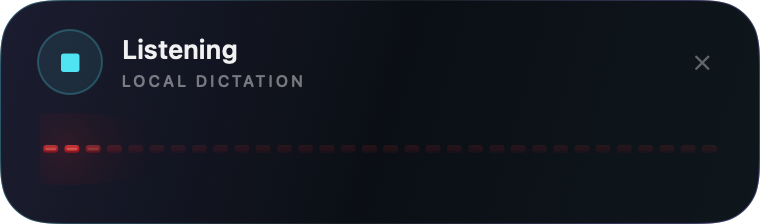
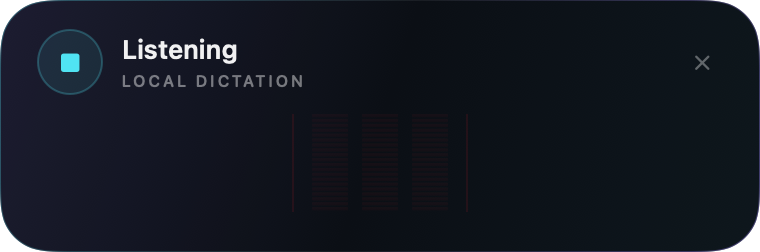
Use KITT voice modulator columns instead of the sweeping scanner

diff --git a/Sources/Views/Components/FloatingRecorderView.swift b/Sources/Views/Components/FloatingRecorderView.swift
@@ -35,7 +35,7 @@ internal struct FloatingRecorderView: View {
                 finalTranscript(finalText)
             } else {
                 VoiceRibbon(levels: levels, active: recording)
-                    .frame(height: 37)
+                    .frame(height: 51)
                     .padding(.horizontal, 20)
                     .padding(.top, 9)
                     .padding(.bottom, streaming ? 9 : 12)
@@ -160,72 +160,63 @@ internal enum AudioLevelDisplay {
     }
 }
 
+/// Three centered LED columns inspired by KITT's dashboard voice modulator.
+/// This view updates only with the existing microphone meter; it has no clock.
 internal struct VoiceRibbon: View {
     let levels: [Double]
     let active: Bool
-    @Environment(\.accessibilityReduceMotion) private var reduceMotion
 
-    var body: some View {
-        Group {
-            if active && !reduceMotion {
-                // Redraw only this small canvas. No particles, blur passes, or
-                // perpetual work once recording stops. Audio still meters at 10 Hz.
-                TimelineView(.animation(minimumInterval: 1.0 / 24.0)) { timeline in
-                    scanner(at: timeline.date.timeIntervalSinceReferenceDate)
-                }
-            } else {
-                scanner(at: nil)
-            }
-        }
-        .accessibilityElement(children: .ignore).accessibilityLabel("Microphone waveform")
+    private func recentLevel(_ count: Int) -> Double {
+        let samples = levels.suffix(count)
+        guard active, !samples.isEmpty else { return 0 }
+        return min(1, max(0, samples.reduce(0, +) / Double(samples.count)))
     }
 
-    private func scanner(at time: TimeInterval?) -> some View {
+    var body: some View {
         Canvas { context, size in
-            let count = 32
-            let pitch = size.width / Double(count)
-            let phase = (time ?? 0) * (2 * Double.pi / 3.2)
-            let head = time == nil ? 0.5 : 0.5 + 0.46 * sin(phase)
-            let direction = cos(phase) >= 0 ? 1.0 : -1.0
-            let voice = active ? (levels.suffix(6).max() ?? 0) : 0
-            let red = Color(red: 1, green: 0.08, blue: 0.12)
-            let lamp = Gradient(colors: [
-                Color(red: 1, green: 0.30, blue: 0.25), red, Color(red: 0.60, green: 0.015, blue: 0.08)
-            ])
+            let rows = 20
+            let columnWidth = 18.0
+            let gap = 7.0
+            let width = columnWidth * 3 + gap * 2
+            let origin = (size.width - width) / 2
+            let pitch = (size.height - 2) / Double(rows)
+            let red = Color(red: 1, green: 0.065, blue: 0.09)
+            let voice = recentLevel(1)
+            // Center follows the present syllable; the flanks use a short envelope
+            // of real readings. These are visual envelopes, not frequency bands.
+            let envelopes = [recentLevel(2) * 0.76, voice, recentLevel(3) * 0.76]
+            let lamp = Gradient(colors: [Color(red: 1, green: 0.31, blue: 0.22), red,
+                                         Color(red: 0.75, green: 0.015, blue: 0.055)])
 
-            // A gradient supplies the halo without an offscreen blur texture.
-            if active {
-                let center = CGPoint(x: head * size.width, y: size.height / 2)
-                context.fill(Path(ellipseIn: CGRect(x: center.x - 55, y: center.y - 18, width: 110, height: 36)),
-                    with: .radialGradient(Gradient(colors: [red.opacity(0.11 + voice * 0.10), .clear]),
-                        center: center, startRadius: 0, endRadius: 55))
+            // Fine, stationary rails frame the voice box without filling the width.
+            for side in [0, 1] {
+                let x = side == 0 ? origin - 10 : origin + width + 9
+                context.fill(Path(CGRect(x: x, y: 1, width: 1, height: size.height - 2)),
+                             with: .color(red.opacity(0.10)))
             }
-
-            for index in 0..<count {
-                let position = (Double(index) + 0.5) / Double(count)
-                let distance = abs(position - head)
-                let behind = (head - position) * direction >= 0
-                let core = exp(-pow(distance * 21, 2))
-                let trail = exp(-distance * (behind ? 14 : 48))
-                let scanner = active ? min(1, core * 0.8 + trail * 0.4) : 0
-                let sampleIndex = min(levels.count - 1, index * levels.count / count)
-                let level = active && sampleIndex >= 0 ? levels[sampleIndex] : 0
-                // Height is driven only by captured voice levels; the scanner is light.
-                let height = 4 + pow(level, 1.4) * (size.height - 10)
-                let rect = CGRect(x: Double(index) * pitch + 1.6, y: (size.height - height) / 2,
-                                  width: max(1, pitch - 3.2), height: height)
-                let shape = Path(roundedRect: rect, cornerRadius: 1.5)
-                var segment = context
-                segment.opacity = active ? min(0.96, 0.10 + scanner * (0.61 + voice * 0.24) + level * 0.12) : 0.05
-                segment.fill(shape, with: .linearGradient(lamp,
-                    startPoint: CGPoint(x: rect.midX, y: rect.minY), endPoint: CGPoint(x: rect.midX, y: rect.maxY)))
-                if scanner > 0.3 {
-                    let filament = CGRect(x: rect.minX + 1, y: rect.midY - 0.7,
-                                          width: max(1, rect.width - 2), height: 1.4)
-                    context.fill(Path(roundedRect: filament, cornerRadius: 0.7),
-                        with: .color(Color(red: 1, green: 0.72, blue: 0.56).opacity(scanner * (0.35 + voice * 0.5))))
+            for column in 0..<3 {
+                let strength = pow(envelopes[column], 1.1)
+                let litPairs = Int((strength * Double(rows / 2)).rounded())
+                let x = origin + Double(column) * (columnWidth + gap)
+                if litPairs > 0 {
+                    let center = CGPoint(x: x + columnWidth / 2, y: size.height / 2)
+                    context.fill(Path(ellipseIn: CGRect(x: x - 9, y: 0, width: columnWidth + 18, height: size.height)),
+                        with: .radialGradient(Gradient(colors: [red.opacity(strength * 0.15), .clear]),
+                            center: center, startRadius: 0, endRadius: size.height / 2))
+                }
+                for row in 0..<rows {
+                    let distance = abs(Double(row) - Double(rows - 1) / 2)
+                    let lit = distance < Double(litPairs)
+                    let rect = CGRect(x: x, y: 1 + Double(row) * pitch,
+                                      width: columnWidth, height: max(1, pitch - 0.8))
+                    var light = context
+                    light.opacity = lit ? 0.76 + strength * 0.24 : 0.045
+                    light.fill(Path(roundedRect: rect, cornerRadius: 0.35), with: .linearGradient(lamp,
+                        startPoint: CGPoint(x: rect.midX, y: rect.minY),
+                        endPoint: CGPoint(x: rect.midX, y: rect.maxY)))
                 }
             }
         }
+        .accessibilityElement(children: .ignore).accessibilityLabel("Microphone voice level")
     }
 }

diff --git a/Sources/Utilities/VersionInfo.swift b/Sources/Utilities/VersionInfo.swift
@@ -1,7 +1,7 @@
 import Foundation
 
 struct VersionInfo {
-    static let version = Bundle.main.object(forInfoDictionaryKey: "CFBundleShortVersionString") as? String ?? "210.10"
+    static let version = Bundle.main.object(forInfoDictionaryKey: "CFBundleShortVersionString") as? String ?? "210.11"
     static let gitHash = Bundle.main.object(forInfoDictionaryKey: "AudioWhisperGitRevision") as? String ?? "dev-build"
     static let buildDate = Bundle.main.object(forInfoDictionaryKey: "AudioWhisperBuildDate") as? String ?? ""
     

diff --git a/Sources/Design/TranscriptPresentation.swift b/Sources/Design/TranscriptPresentation.swift
@@ -2,8 +2,8 @@ import AppKit
 
 internal enum TranscriptPresentation {
     static let width: CGFloat = 380
-    static let compactHeight: CGFloat = 112
-    static let liveHeight: CGFloat = 180
+    static let compactHeight: CGFloat = 126
+    static let liveHeight: CGFloat = 194
 
     /// Short phrases flash briefly; longer text gets time to scan without a persistent panel.
     static func duration(for text: String) -> TimeInterval {

diff --git a/docs/STREAMING.md b/docs/STREAMING.md
@@ -16,13 +16,13 @@ Each recording has a session UUID and ordered packet sequence. Late packets and 
 
 ## Presentation
 
-A 380 × 180 point live display shows the last two lines of draft text and a waveform built from 48 actual microphone-level readings at the recorder's existing 10 Hz metering rate. In streaming-off mode the display is 380 × 112. The Knight Rider–inspired red scanner moves a decorative light across the waveform at 24 fps; bar height still reflects actual microphone levels, including during silence. The effect uses one 340 × 37 point canvas, 32 segments, and gradient light without particle systems or blur passes. Its animation timeline exists only while recording and is omitted with Reduce Motion enabled. The display stays geometrically centered as its size changes.
+A 380 × 194 point live display shows the last two lines of draft text and a waveform built from 48 actual microphone-level readings at the recorder's existing 10 Hz metering rate. In streaming-off mode the display is 380 × 126. The KITT-inspired voice modulator has three centered columns of 20 red LED segments. The center column follows the present microphone level, and the flanks use short averages of real readings. Lights expand above and below the center with speech. A single 340 × 51 point canvas updates only from the existing 10 Hz audio meter, with no animation timeline, particles, or blur passes. Silence leaves only faint unlit segments. These are visual level envelopes, not frequency bands. The display stays geometrically centered as its size changes.
 
 The final text displays for `clamp(0.65 + words × 0.045, 0.85, 6)` seconds, with a single completion glow/check animation. Its text area is bounded for long transcripts. Starting another recording or dismissing the display cancels its previous dismissal task. No auto-paste or required confirmation key is introduced.
 
 ## Validation on this Mac
 
-The 210.10 scanner was measured in an isolated optimized SwiftUI preview with 10 Hz changing meter fixtures: 0.493 CPU seconds over eight seconds of animation (6.16% of one CPU core), and 0.00443 CPU seconds over four idle seconds (0.11% of one core). This measures the preview process, not the separate WindowServer/GPU or transcription workload. No microphone or model was used for this graphics check.
+The 210.11 voice display was measured in an isolated optimized SwiftUI preview with changing 10 Hz meter fixtures: 0.15284 CPU seconds over eight active seconds (1.91% of one CPU core), and 0.00405 CPU seconds over four idle seconds (0.10% of one core). This measures the preview process, not the separate WindowServer/GPU or transcription workload. No microphone or model was used for this graphics check.
 
 On two local dictation recordings of about eight seconds each, the former streaming approximation produced badly incorrect text; normal rolling-window decoding recovered the spoken sentences. Median preview computation was 0.128 and 0.099 seconds respectively, with a maximum of 0.276 seconds. These figures exclude capture/buffering time and are not a general accuracy benchmark. The recordings and their transcripts are not included in the repository.
 

diff --git a/SPEEDYWHISPER.md b/SPEEDYWHISPER.md
@@ -4,7 +4,7 @@ SpeedyWhisper is the personal Parakeet v2 fork of [AudioWhisper by mazdak and co
 
 ## Recording and manual paste
 
-The recorder appears at the exact center of the screen containing the pointer, without taking keyboard focus. Its Knight Rider–inspired red scanner sweeps across voice-reactive bars, with a warm core and trailing glow. Bar heights display actual recent microphone levels, and the timer tracks the recording. The scanner draws a single small canvas at 24 fps only while recording; Reduce Motion keeps the light stationary. Two compact lines show live Parakeet text; draft words are tinted cyan. The listening display is 380 × 180 points with streaming, or 380 × 112 without it.
+The recorder appears at the exact center of the screen containing the pointer, without taking keyboard focus. Its KITT-inspired dashboard voice display has three vertical columns of red LED segments that light symmetrically from the center with speech. The central column follows the current microphone level; the shorter flanking columns use brief averages of recent readings. A single canvas updates from the existing 10 Hz audio meter, with no animation timer. The timer in the header tracks the recording. Two compact lines show live Parakeet text; draft words are tinted cyan. The listening display is 380 × 194 points with streaming, or 380 × 126 without it.
 
 Stopping still runs the established full-recording Parakeet pass. The final text is copied immediately, the view gives a single glow/check confirmation, and then dismisses automatically. Short phrases remain for 0.85 seconds; longer text receives more scan time, up to six seconds. The user presses ⌘V in their chosen application. There is no Paste button, synthetic paste event, or Accessibility setup. Reduce Motion is respected.
 
